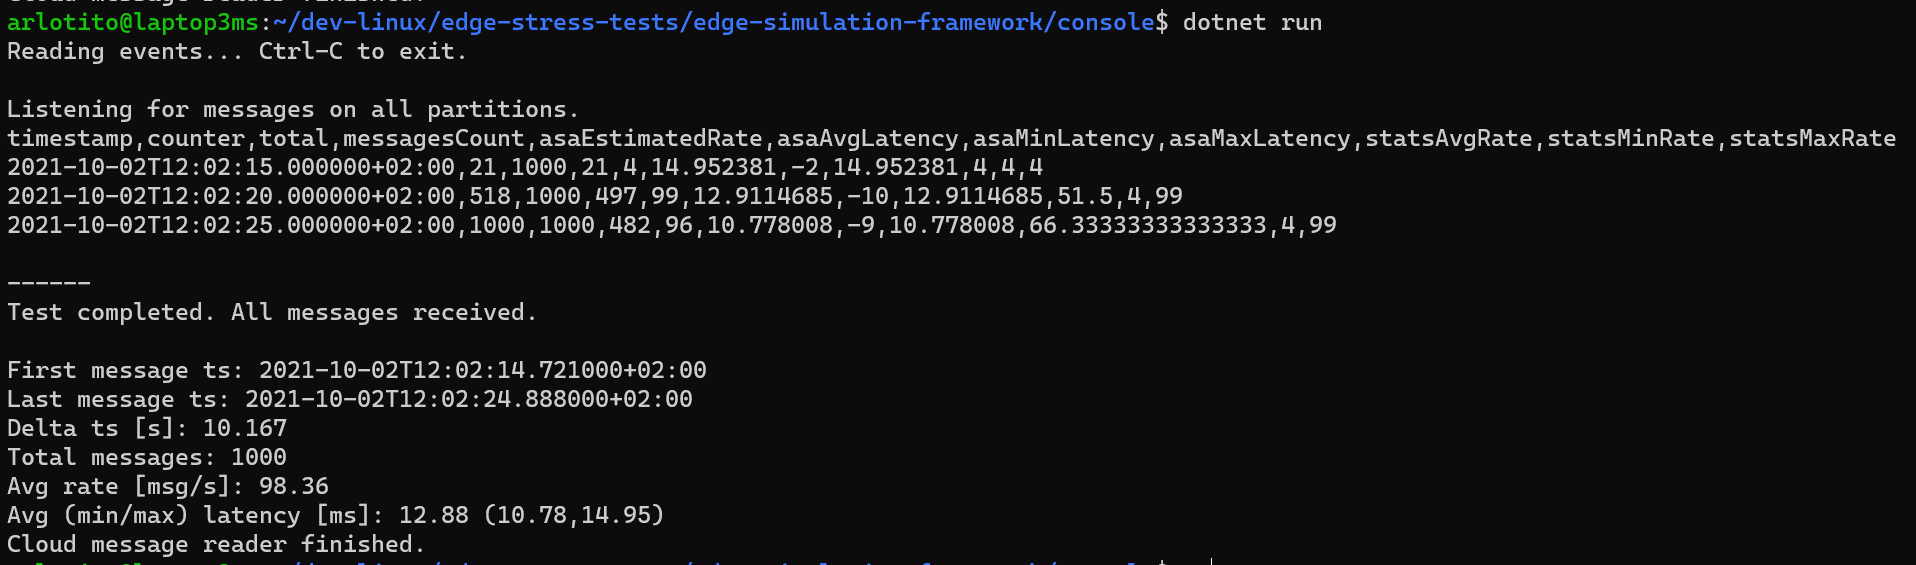
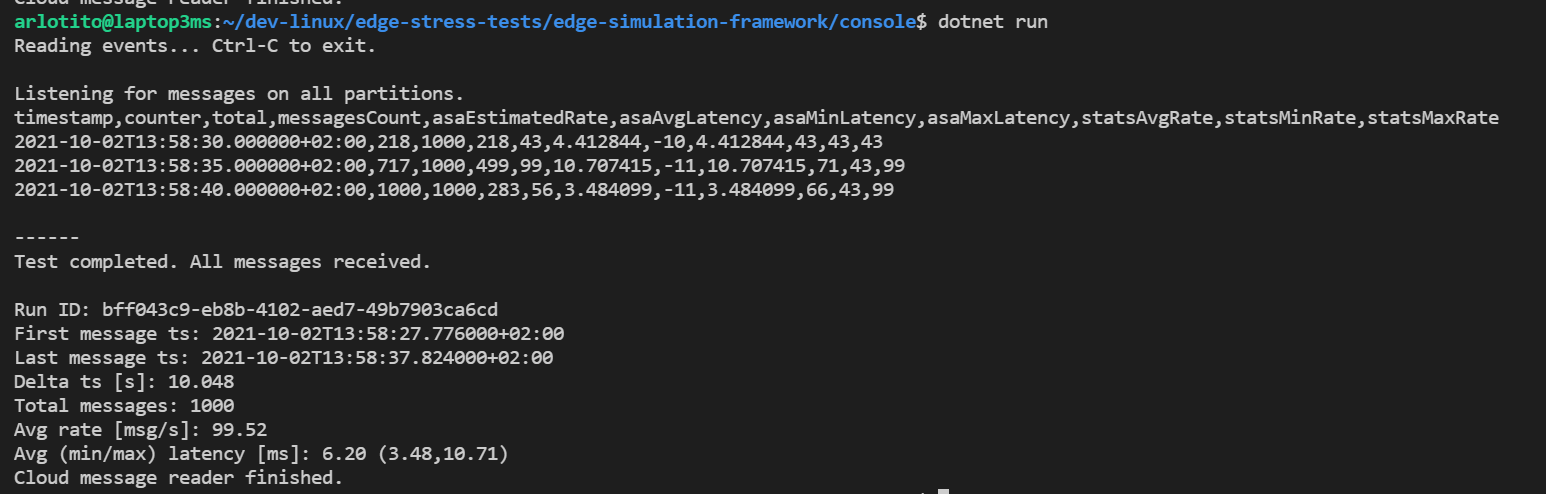
each run gets a GUID

diff --git a/edgeSolution/modules/source/Program.cs b/edgeSolution/modules/source/Program.cs
@@ -105,19 +105,21 @@ namespace source
         {
             Stopwatch stopwatch = new Stopwatch();
             Stopwatch burstStopwatch = new Stopwatch();
+            Guid runId = Guid.NewGuid();
 
             int msgCnt = 0;
             int burstCnt = 0;
             int totalMessageCount = 0;
+
+            Console.WriteLine($"Run ID: {runId.ToString()}");
 
             double waitBeforeNextMessage = 0; //if 0, there won't be any delay
             if (options.targetRate > 0)
                 waitBeforeNextMessage = 1 / (double)options.targetRate * 1000;
             Console.WriteLine($"(calculated) wait between messages: {waitBeforeNextMessage} ms");
 
-            Console.WriteLine();
-            Console.WriteLine();
-
+            Console.WriteLine("\n\n");
+            
             burstStopwatch.Restart();
 
             if (options.burstLength == 0)
@@ -155,6 +157,7 @@ namespace source
                         ts = DateTimeOffset.Now.ToUnixTimeMilliseconds(),
                         counter = msgCnt + 1,
                         total = options.burstLength,
+                        runId = runId.ToString(),
                         payload = RandomString(options.payloadLength)
                     };
                     string messageString = "";

diff --git a/console/Program.cs b/console/Program.cs
@@ -187,6 +187,7 @@ namespace eh_consumer
 
                         Console.WriteLine("\n------\nTest completed. All messages received.\n");
 
+                        Console.WriteLine($"Run ID: {msg.runId}");
                         Console.WriteLine($"First message ts: {firstMessageDT.ToString("yyyy-MM-ddTHH:mm:ss.ffffffK")}");
                         Console.WriteLine($"Last message ts: {lastMessageDT.ToString("yyyy-MM-ddTHH:mm:ss.ffffffK")}");
                         Console.WriteLine($"Delta ts [s]: {delta.TotalSeconds}");

diff --git a/console/asaMessage.cs b/console/asaMessage.cs
@@ -4,8 +4,8 @@ namespace AsaJob
     {
         // timestamp of the 5s bucket
         public string t;
-        //device id
-        public string device_id;
+        
+        public string runId;
         public string firstMsgTs;
         public string lastMsgTs;
 
@@ -13,6 +13,7 @@ namespace AsaJob
         public float counter;
         //last total seen in the bucket
         public float total;
+        
         public int messagesCount;
         public int estimatedRate;
         public float avgLatency;

diff --git a/console/Parameters.cs b/console/Parameters.cs
@@ -30,7 +30,7 @@ namespace eh_consumer
             't',
             "timeout",
             Required = false,
-            Default = "10000",
+            Default = "60000",
             HelpText = "If a new message is not received within this timeout, the app exits")]
         public string Timeout { get; set; }
     }

diff --git a/edgeSolution/modules/source/message.cs b/edgeSolution/modules/source/message.cs
@@ -12,6 +12,9 @@ namespace edgeBenchmark
         // total msg to be sent
         public int total;
 
+        // a guid for this run
+        public string runId;
+
         // payload with random content
         public string payload;
     }
